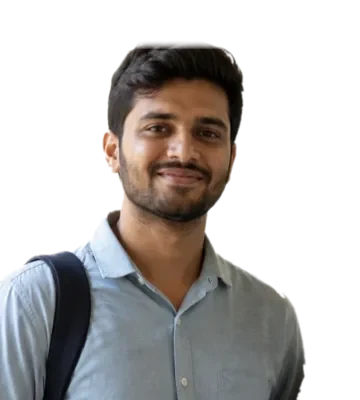
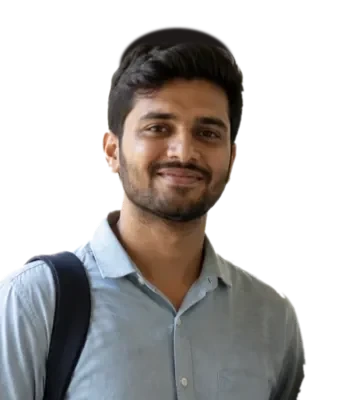
Toppers: reel runs from load, record heading matches the reel, placeholder portrait for all, rounded crown

Changed region(s): [[0.3056, 0.06, 0.6722, 0.18]]

diff --git a/components/sections/Toppers/Toppers.jsx b/components/sections/Toppers/Toppers.jsx
@@ -220,7 +220,7 @@ const PROG = new Map(TOPPERS.filter(p => p.c).map(p => [`${p.y}-${p.r}`, p.c]));
 const PLACEHOLDER = '/assets/img/toppers/portrait/placeholder-man-pad.webp';
 const RECORD = NP_ARCHIVE.ARCHIVE_YEARS.filter(y => y < LATEST).map(y => ({
   y,
-  people: [...NP_ARCHIVE.ARCHIVE[y]].sort((a, b) => a.rank - b.rank).map(p => ({ r: p.rank, n: p.name, c: prog(p.programmes || PROG.get(`${y}-${p.rank}`)), src: y === 2024 ? PLACEHOLDER : '/' + p.photo })),
+  people: [...NP_ARCHIVE.ARCHIVE[y]].sort((a, b) => a.rank - b.rank).map(p => ({ r: p.rank, n: p.name, c: prog(p.programmes || PROG.get(`${y}-${p.rank}`)), src: PLACEHOLDER })),
 }));
 const FIRST = RECORD[0].people[0];
 const isCutout = src => src.includes('/portrait/2025/') || src.includes('/portrait/placeholder');
@@ -248,7 +248,7 @@ function ToppersRecord() {
           </div>
           <Tabs className="tp-yrs cu:self-center" label="Year of the examination" controls="tpList" items={RECORD.map(g => ({ id: String(g.y), label: g.y }))} />
         </div>
-        <div className="cu:relative cu:mt-[clamp(10px,1.2vw,14px)] cu:p-[clamp(32px,3.2vw,46px)] cu:rounded-(--r-form) cu:before:absolute cu:before:inset-[12px] cu:before:pointer-events-none cu:before:border-[16px] cu:before:border-t-0 cu:before:border-solid cu:before:border-transparent cu:before:[border-image:url(/assets/img/patterns/frame.svg)_16_/_1_/_0_stretch]">
+        <div className="cu:relative cu:mt-[clamp(10px,1.2vw,14px)] cu:p-[clamp(32px,3.2vw,46px)] cu:rounded-(--r-form) cu:before:absolute cu:before:inset-[12px] cu:before:top-[calc(clamp(32px,3.2vw,46px)+38px)] cu:before:pointer-events-none cu:before:border-[16px] cu:before:border-t-0 cu:before:border-solid cu:before:border-transparent cu:before:[border-image:url(/assets/img/patterns/frame.svg)_16_/_1_/_0_stretch]">
           <p className="dr__h"><span data-year-head>{`${RECORD[0].people.length} Ranks, UPSC CSE ${RECORD[0].y}`}</span></p>
           <div className="cu:grid cu:grid-cols-[minmax(0,300px)_minmax(0,1fr)] cu:max-[1100px]:grid-cols-[minmax(0,270px)_minmax(0,1fr)] cu:max-[900px]:grid-cols-1 cu:gap-[clamp(20px,3vw,40px)] cu:items-start cu:mt-[clamp(10px,1.2vw,14px)] cu:[--col:clamp(340px,calc(100svh_-_260px),700px)]">
             <div id="tpList" data-lenis-prevent className="tp-list cu:max-h-(--col) cu:overflow-y-auto cu:-ml-[6px] cu:pl-[6px] cu:pr-[10px] cu:[mask-image:linear-gradient(180deg,#000_90%,transparent)]">
@@ -489,9 +489,7 @@ export function initDiamondReel() {
 
   layout(); tabApi.centre(false);
   let rt = 0; addEventListener('resize', () => { clearTimeout(rt); rt = setTimeout(() => { layout(); tabApi.centre(false); }, 150); });
-  let seen = false;
-  const sync = () => { dr.classList.toggle('is-off', !seen || document.hidden); sync2(); };
-  new IntersectionObserver(es => { seen = es[0].isIntersecting; sync(); }, { rootMargin: '100px 0px' }).observe(dr);
+  const sync = () => { dr.classList.toggle('is-off', document.hidden); sync2(); };
   document.addEventListener('visibilitychange', sync);
   sync();
 }

diff --git a/public/css/podium.css b/public/css/podium.css
@@ -543,9 +543,4 @@ html #toppers .tp-row[aria-current]:focus-visible { outline-color: var(--ink, #1
 /* the record list: only the chosen year's names show (a utility class's display would otherwise override [hidden]), and wheel scrolling passes on to the page at the list's ends */
 .tp-list ul[hidden] { display: none; }
 
-/* the record's "38 Ranks, UPSC CSE 2024" heading: its flourish lines run out to the frame's border at each end (the frame sits 28px in from the container's edge) */
-.tp-record .dr__h { margin-inline: calc(-1 * (clamp(32px, 3.2vw, 46px) - 28px)); }
-.tp-record .dr__h::before, .tp-record .dr__h::after { flex: 1; width: auto; min-width: 0; }
-.tp-record .dr__h { margin-block: 0; margin-inline: calc(-1 * (clamp(32px, 3.2vw, 46px) - 18px)); }
-.tp-record .dr__h::before, .tp-record .dr__h::after { height: 1px; background: rgba(194, 65, 12, .4); }
-html #toppers .tp-record .dr__h::before, html #toppers .tp-record .dr__h::after { background: rgba(194, 65, 12, .4); }
+.tp-record .dr__h { margin-inline: 0; }
